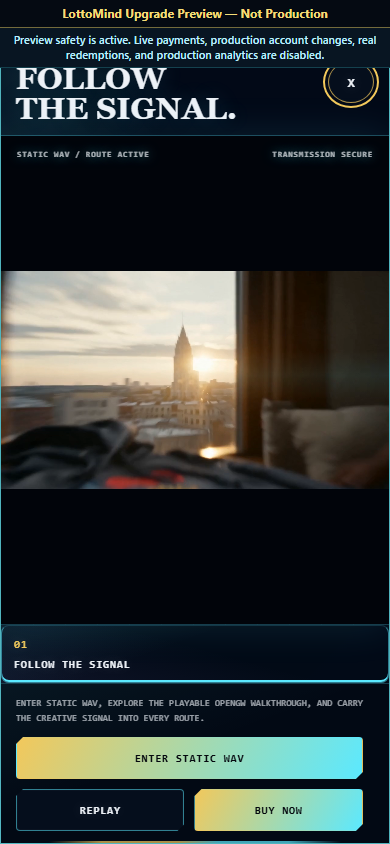
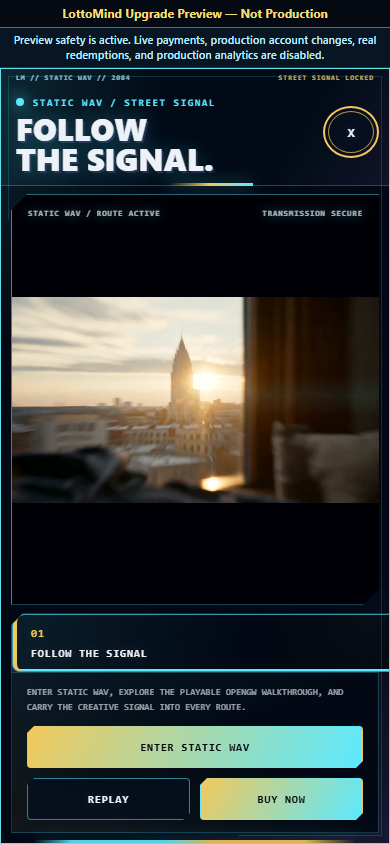
style: refine Static Wav commercial HUD

diff --git a/lottominded-ultra.io/assets/css/lm-commercial-gate.css b/lottominded-ultra.io/assets/css/lm-commercial-gate.css
@@ -227,6 +227,7 @@ body.has-lm-commercial-gate {
 
 .lm-commercial-gate--guide .lm-commercial-gate__panel {
   position: relative;
+  isolation: isolate;
   display: grid;
   grid-template-columns: minmax(0, 1.8fr) minmax(17rem, 0.72fr);
   grid-template-rows: auto minmax(0, 1fr) auto;
@@ -234,54 +235,97 @@ body.has-lm-commercial-gate {
   height: min(48rem, calc(100dvh - clamp(24px, 6vw, 84px)));
   max-height: 48rem;
   overflow: hidden;
-  border-color: rgba(111, 247, 255, 0.72);
+  border-color: rgba(111, 247, 255, 0.9);
   border-radius: 0;
-  clip-path: polygon(18px 0, calc(100% - 18px) 0, 100% 18px, 100% calc(100% - 18px), calc(100% - 18px) 100%, 18px 100%, 0 calc(100% - 18px), 0 18px);
+  clip-path: polygon(24px 0, calc(100% - 46px) 0, 100% 46px, 100% calc(100% - 24px), calc(100% - 24px) 100%, 46px 100%, 0 calc(100% - 46px), 0 24px);
   background:
-    linear-gradient(135deg, rgba(111, 247, 255, 0.08), transparent 24%),
-    linear-gradient(315deg, rgba(167, 139, 250, 0.08), transparent 25%),
+    linear-gradient(135deg, rgba(111, 247, 255, 0.12), transparent 24%),
+    linear-gradient(315deg, rgba(167, 139, 250, 0.12), transparent 25%),
+    repeating-linear-gradient(90deg, transparent 0 72px, rgba(91, 233, 255, 0.018) 72px 73px),
     #020914;
   box-shadow:
     0 0 0 1px rgba(242, 200, 91, 0.18),
-    0 0 0 7px rgba(2, 9, 20, 0.82),
-    0 0 90px rgba(91, 233, 255, 0.22),
+    0 0 0 7px rgba(2, 9, 20, 0.9),
+    0 0 0 9px rgba(91, 233, 255, 0.12),
+    0 0 90px rgba(91, 233, 255, 0.28),
+    0 0 150px rgba(167, 139, 250, 0.12),
     0 48px 160px rgba(0, 0, 0, 0.82);
 }
 
 .lm-commercial-gate--guide .lm-commercial-gate__panel::before,
 .lm-commercial-gate--guide .lm-commercial-gate__panel::after {
   position: absolute;
-  z-index: 5;
-  left: 3rem;
-  right: 3rem;
-  height: 2px;
+  z-index: 8;
   pointer-events: none;
-  background: linear-gradient(90deg, transparent, var(--lm-commercial-cyan) 18% 42%, var(--lm-commercial-gold) 56% 82%, transparent);
-  opacity: 0.7;
   content: "";
 }
 
 .lm-commercial-gate--guide .lm-commercial-gate__panel::before {
-  top: 0;
+  inset: 7px;
+  border: 1px solid rgba(91, 233, 255, 0.17);
+  clip-path: polygon(0 0, 12rem 0, 12rem 1px, 1px 1px, 1px 9rem, 0 9rem, 0 0, 100% 0, 100% 100%, calc(100% - 9rem) 100%, calc(100% - 9rem) calc(100% - 1px), calc(100% - 1px) calc(100% - 1px), calc(100% - 1px) calc(100% - 8rem), 100% calc(100% - 8rem));
 }
 
 .lm-commercial-gate--guide .lm-commercial-gate__panel::after {
-  bottom: 0;
-  transform: scaleX(-1);
+  inset: auto 2rem 0;
+  height: 3px;
+  background: linear-gradient(90deg, transparent, var(--lm-commercial-cyan) 12% 41%, var(--lm-commercial-gold) 55% 84%, transparent);
+  box-shadow: 0 0 20px rgba(91, 233, 255, 0.5);
+  opacity: 0.9;
+}
+
+.lm-commercial-gate--guide .lm-commercial-gate__guide-chassis {
+  position: absolute;
+  z-index: 9;
+  inset: 8px 38px auto;
+  display: flex;
+  justify-content: space-between;
+  gap: 16px;
+  color: rgba(170, 244, 255, 0.74);
+  font-family: "IBM Plex Mono", Consolas, monospace;
+  font-size: 0.48rem;
+  font-weight: 800;
+  letter-spacing: 0.16em;
+  text-transform: uppercase;
+  pointer-events: none;
+}
+
+.lm-commercial-gate--guide .lm-commercial-gate__guide-chassis span:last-child {
+  color: rgba(242, 200, 91, 0.84);
 }
 
 .lm-commercial-gate--guide .lm-commercial-gate__header {
+  position: relative;
   grid-column: 1 / -1;
-  min-height: 104px;
-  padding: 16px 24px;
+  min-height: 112px;
+  padding: 26px 28px 16px;
   border-bottom: 1px solid rgba(91, 233, 255, 0.28);
-  background: linear-gradient(90deg, rgba(91, 233, 255, 0.08), transparent 42%), rgba(2, 10, 23, 0.94);
+  background:
+    linear-gradient(90deg, rgba(91, 233, 255, 0.12), transparent 42%),
+    linear-gradient(120deg, transparent 0 72%, rgba(167, 139, 250, 0.08)),
+    rgba(2, 10, 23, 0.96);
+}
+
+.lm-commercial-gate--guide .lm-commercial-gate__header::after {
+  position: absolute;
+  right: 8.5rem;
+  bottom: -1px;
+  width: min(22vw, 16rem);
+  height: 3px;
+  background: linear-gradient(90deg, transparent, var(--lm-commercial-gold), var(--lm-commercial-cyan));
+  box-shadow: 0 0 16px rgba(91, 233, 255, 0.55);
+  content: "";
 }
 
 .lm-commercial-gate--guide .lm-commercial-gate__header h2 {
-  font-family: Georgia, "Times New Roman", serif;
-  font-size: clamp(2rem, 4vw, 3.5rem);
-  text-shadow: 0 0 22px rgba(91, 233, 255, 0.22);
+  max-width: 16ch;
+  font-family: "Space Grotesk", "Segoe UI", sans-serif;
+  font-size: clamp(2.15rem, 4.2vw, 3.8rem);
+  font-weight: 800;
+  letter-spacing: 0;
+  text-shadow:
+    0 0 22px rgba(91, 233, 255, 0.28),
+    2px 2px 0 rgba(167, 139, 250, 0.18);
 }
 
 .lm-commercial-gate--guide .lm-commercial-gate__header-actions {
@@ -304,12 +348,13 @@ body.has-lm-commercial-gate {
 }
 
 .lm-commercial-gate--guide .lm-commercial-gate__stage {
+  position: relative;
   grid-column: 1;
   grid-row: 2 / 4;
   min-height: 0;
-  margin: 0;
-  border: 0;
-  border-right: 1px solid rgba(91, 233, 255, 0.24);
+  margin: 18px;
+  border: 1px solid rgba(91, 233, 255, 0.56);
+  clip-path: polygon(16px 0, 100% 0, 100% calc(100% - 16px), calc(100% - 16px) 100%, 0 100%, 0 16px);
   background:
     linear-gradient(rgba(91, 233, 255, 0.035) 1px, transparent 1px),
     linear-gradient(90deg, rgba(91, 233, 255, 0.035) 1px, transparent 1px),
@@ -317,46 +362,67 @@ body.has-lm-commercial-gate {
   background-size: 2rem 2rem;
   box-shadow:
     inset 0 0 0 1px rgba(242, 200, 91, 0.12),
-    0 0 40px rgba(91, 233, 255, 0.12);
+    inset 0 0 46px rgba(2, 9, 20, 0.72),
+    0 0 38px rgba(91, 233, 255, 0.16);
   aspect-ratio: auto;
 }
 
 .lm-commercial-gate--guide .lm-commercial-gate__stage video {
   object-fit: contain;
+  filter: saturate(1.08) contrast(1.04);
 }
 
 .lm-commercial-gate--guide .lm-commercial-gate__chapters {
+  position: relative;
   grid-column: 2;
   grid-row: 2;
   grid-template-columns: 1fr;
   align-content: center;
-  padding: clamp(20px, 2.4vw, 32px);
+  margin: 18px 18px 0 0;
+  padding: clamp(26px, 3vw, 40px) clamp(20px, 2.4vw, 30px);
+  border: 1px solid rgba(91, 233, 255, 0.2);
   border-bottom: 0;
+  clip-path: polygon(12px 0, 100% 0, 100% 100%, 0 100%, 0 12px);
   background:
-    linear-gradient(160deg, rgba(91, 233, 255, 0.08), transparent 42%),
-    linear-gradient(15deg, rgba(167, 139, 250, 0.08), transparent 55%),
+    radial-gradient(circle at 92% 8%, rgba(242, 200, 91, 0.16), transparent 7rem),
+    linear-gradient(160deg, rgba(91, 233, 255, 0.11), transparent 42%),
+    linear-gradient(15deg, rgba(167, 139, 250, 0.1), transparent 55%),
     rgba(2, 10, 23, 0.96);
 }
 
 .lm-commercial-gate--guide .lm-commercial-gate__chapters button {
-  min-height: 72px;
-  padding: 14px 0;
-  border-top: 1px solid rgba(91, 233, 255, 0.16);
-  background: transparent;
+  min-height: 82px;
+  padding: 16px;
+  border: 1px solid rgba(91, 233, 255, 0.2);
+  background:
+    linear-gradient(105deg, rgba(91, 233, 255, 0.08), transparent 62%),
+    rgba(1, 8, 19, 0.84);
+  box-shadow: inset 4px 0 0 rgba(242, 200, 91, 0.7);
 }
 
 .lm-commercial-gate--guide .lm-commercial-gate__chapters button:is(:hover, :focus-visible, .is-active) {
-  padding-inline: 12px;
+  padding-inline: 18px 14px;
+  border-color: rgba(91, 233, 255, 0.62);
+  box-shadow:
+    inset 4px 0 0 var(--lm-commercial-gold),
+    inset 0 -2px var(--lm-commercial-cyan),
+    0 0 26px rgba(91, 233, 255, 0.12);
 }
 
 .lm-commercial-gate--guide .lm-commercial-gate__footer {
+  position: relative;
   grid-column: 2;
   grid-row: 3;
   display: grid;
   align-content: end;
-  padding: 20px 24px 24px;
+  margin: 0 18px 18px 0;
+  padding: 22px 24px 24px;
+  border: 1px solid rgba(91, 233, 255, 0.2);
   border-top: 1px solid rgba(91, 233, 255, 0.24);
-  background: linear-gradient(160deg, rgba(91, 233, 255, 0.06), transparent 45%), rgba(2, 9, 20, 0.98);
+  background:
+    linear-gradient(160deg, rgba(91, 233, 255, 0.08), transparent 45%),
+    linear-gradient(25deg, rgba(242, 200, 91, 0.07), transparent 55%),
+    rgba(2, 9, 20, 0.98);
 }
 
 .lm-commercial-gate--guide .lm-commercial-gate__footer p {
@@ -379,6 +445,15 @@ body.has-lm-commercial-gate {
 .lm-commercial-gate--guide .lm-commercial-gate__actions :is(button, a) {
   border-radius: 4px;
   clip-path: polygon(7px 0, 100% 0, 100% calc(100% - 7px), calc(100% - 7px) 100%, 0 100%, 0 7px);
+  transition:
+    border-color 180ms ease,
+    box-shadow 180ms ease,
+    transform 180ms ease;
+}
+
+.lm-commercial-gate--guide .lm-commercial-gate__actions :is(button, a):is(:hover, :focus-visible) {
+  transform: translateY(-2px);
+  box-shadow: 0 0 24px rgba(91, 233, 255, 0.24);
 }
 
 .lm-commercial-gate--guide .lm-commercial-gate__signal::before {
@@ -450,11 +525,16 @@ body.has-lm-commercial-gate {
     clip-path: none;
   }
 
+  .lm-commercial-gate--guide .lm-commercial-gate__guide-chassis {
+    inset: 5px 15px auto;
+    font-size: 0.42rem;
+  }
+
   .lm-commercial-gate--guide .lm-commercial-gate__header {
     grid-column: 1;
     grid-row: 1;
     min-height: 88px;
-    padding: 12px 15px;
+    padding: 22px 15px 12px;
   }
 
   .lm-commercial-gate--guide .lm-commercial-gate__header h2 {
@@ -469,7 +549,7 @@ body.has-lm-commercial-gate {
     grid-column: 1;
     grid-row: 2;
     min-height: min(58vw, 25rem);
-    margin: 0;
+    margin: 8px 10px;
     border-right: 0;
     border-bottom: 1px solid rgba(91, 233, 255, 0.24);
   }
@@ -479,6 +559,7 @@ body.has-lm-commercial-gate {
     grid-row: 3;
     grid-template-columns: repeat(var(--lm-commercial-chapter-count, 3), minmax(112px, 1fr));
     align-content: initial;
+    margin: 0 10px;
     padding: 0;
     overflow-x: auto;
   }
@@ -486,12 +567,14 @@ body.has-lm-commercial-gate {
   .lm-commercial-gate--guide .lm-commercial-gate__chapters button {
     min-height: 58px;
     padding: 9px 11px;
+    box-shadow: inset 0 -2px 0 rgba(242, 200, 91, 0.5);
   }
 
   .lm-commercial-gate--guide .lm-commercial-gate__footer {
     grid-column: 1;
     grid-row: 4;
     gap: 12px;
+    margin: 0 10px 10px;
     padding: 12px 15px max(12px, env(safe-area-inset-bottom));
   }
 
@@ -508,5 +591,9 @@ body.has-lm-commercial-gate {
 
   .lm-commercial-gate__scan {
     animation: none;
+  }
+
+  .lm-commercial-gate--guide .lm-commercial-gate__actions :is(button, a) {
+    transition: none;
   }
 }

diff --git a/lottominded-ultra.io/assets/js/lm-commercial-gate.js b/lottominded-ultra.io/assets/js/lm-commercial-gate.js
@@ -127,8 +127,14 @@
   modal.setAttribute("aria-modal", "true");
   modal.setAttribute("aria-labelledby", "lmCommercialGateTitle");
   modal.style.setProperty("--lm-commercial-chapter-count", String(films.length));
+  if (routeTheme === "guide") modal.dataset.lmGuideHud = "static-wav-2084";
   modal.innerHTML = `
     <div class="lm-commercial-gate__panel">
+      ${routeTheme === "guide" ? `
+        <div class="lm-commercial-gate__guide-chassis" aria-hidden="true">
+          <span>LM // STATIC WAV // 2084</span>
+          <span>STREET SIGNAL LOCKED</span>
+        </div>` : ""}
       <header class="lm-commercial-gate__header">
         <div>
           <span class="lm-commercial-gate__signal"></span>
@@ -175,6 +181,7 @@
   const suspendedMedia = [];
   let closing = false;
   let transitionFallbackTimer = 0;
+  let previewOffsetTimer = 0;
 
   const pausePageMedia = () => {
     document.querySelectorAll("audio, video").forEach((media) => {
@@ -281,6 +288,7 @@
 
   const finishGate = () => {
     window.clearTimeout(transitionFallbackTimer);
+    window.clearTimeout(previewOffsetTimer);
     body.classList.remove("has-lm-commercial-gate");
     siblings.forEach((node) => node.removeAttribute("inert"));
     document.removeEventListener("play", blockCompetingMedia, true);
@@ -340,6 +348,8 @@
 
   body.append(modal);
   syncPreviewOffset();
+  requestAnimationFrame(syncPreviewOffset);
+  previewOffsetTimer = window.setTimeout(syncPreviewOffset, 120);
   window.addEventListener("resize", syncPreviewOffset);
   body.classList.add("has-lm-commercial-gate");
   siblings.forEach((node) => node.setAttribute("inert", ""));

diff --git a/lottominded-ultra.io/how-to-use.html b/lottominded-ultra.io/how-to-use.html
@@ -19,7 +19,7 @@
     </script>
     <link rel="stylesheet" href="./assets/css/lm-page-transition.css?v=transition-exit-audit-4" />
     <link rel="stylesheet" href="./assets/css/lm-global-orb-header.css?v=site-audit-1" />
-    <link rel="stylesheet" href="./assets/css/lm-commercial-gate.css?v=static-wav-storefront-hud-4" />
+    <link rel="stylesheet" href="./assets/css/lm-commercial-gate.css?v=static-wav-future-hud-5" />
     <style>
       :root {
         color-scheme: dark;
@@ -221,6 +221,6 @@
 <script src="./assets/js/lm-page-transition-audio.js?v=transition-audio-in-out-7" defer></script>
 <script src="./assets/js/lm-page-transition.js?v=transition-every-route-5" defer></script>
 <script src="./site.js?v=header-toggle-routes-5" defer></script>
-<script src="./assets/js/lm-commercial-gate.js?v=static-wav-storefront-hud-6" defer></script>
+<script src="./assets/js/lm-commercial-gate.js?v=static-wav-future-hud-7" defer></script>
   </body>
 </html>

diff --git a/docs/staging-reviews/signal-media-corrections.md b/docs/staging-reviews/signal-media-corrections.md
@@ -186,3 +186,24 @@
 | --- | --- | --- |
 | Hero depth | [Desktop](../visual-baseline/v1/memberships--desktop.png) / [Tablet](../visual-baseline/v1/memberships--tablet.png) / [Mobile](../visual-baseline/v1/memberships--mobile.png) | [Desktop](./signal-media-corrections-assets/membership-depth-hero-1440x900.png) / [Tablet](./signal-media-corrections-assets/membership-depth-hero-768x1024.png) / [Mobile](./signal-media-corrections-assets/membership-depth-hero-390x844.png) |
 | Plan depth | [Desktop](../visual-baseline/v1/memberships--desktop.png) / [Tablet](../visual-baseline/v1/memberships--tablet.png) / [Mobile](../visual-baseline/v1/memberships--mobile.png) | [Desktop](./signal-media-corrections-assets/membership-depth-plans-1440x900.png) / [Tablet](./signal-media-corrections-assets/membership-depth-plans-768x1024.png) / [Mobile](./signal-media-corrections-assets/membership-depth-plans-390x844.png) |
+
+## 2026-07-28 Static Wav Future HUD Addendum
+
+- Affected route: Static Wav (`/how-to-use.html`)
+- Improvement: The existing guide commercial now uses a deeper transmission chassis with beveled corners, layered cyan/gold framing, glass telemetry surfaces, a contained film bay, a stronger chapter node, and a clearer action deck.
+- Mobile correction: The popup remeasures the staging safety bars after they are inserted, keeping the HUD crown, title, film, and controls fully visible at 390x844.
+- Preserved behavior: The original `lottomind-guide-commercial-20260717.mp4` film, one-commercial-per-entry rule, sound fallback, automatic dismissal, transition handoff, and Storefront-only Buy Now navigation are unchanged.
+- Intentional departure: The previous clean Storefront-style split panel becomes a more cinematic Static Wav signal chassis. The Detroit footage and black, gold, cyan, and violet identity remain recognizable.
+- Verification: The focused Static Wav browser test passed 2/2 across desktop and mobile. The candidate source/staging route matrix passed 92/92. Staging safety passed 10/10, and static verification covered 23 pages and 543 same-origin references.
+- Visual verification: 3/3 staging captures passed at 1440x900, 768x1024, and 390x844 with no horizontal overflow, running reduced-motion animation, console errors, page errors, or broken assets.
+- Safety: Staging remains noindex and visibly labeled. The Buy Now action remains route navigation only; live payments, production account writes, real redemptions, and production analytics remain blocked.
+- Approval status: **Ready for next phase.** Production remains unchanged and not approved.
+
+### Static Wav Future HUD Captures
+
+- [Desktop staging](./signal-media-corrections-assets/static-wav-1440x900.png)
+- [Tablet staging](./signal-media-corrections-assets/static-wav-768x1024.png)
+- [Mobile staging](./signal-media-corrections-assets/static-wav-390x844.png)
+- [v1 desktop baseline](../visual-baseline/v1/how-to-use--desktop.png)
+- [v1 tablet baseline](../visual-baseline/v1/how-to-use--tablet.png)
+- [v1 mobile baseline](../visual-baseline/v1/how-to-use--mobile.png)

diff --git a/docs/upgrade-redesign-status.md b/docs/upgrade-redesign-status.md
@@ -328,3 +328,18 @@
 - Staging URL: Local only (`http://127.0.0.1:8143/memberships.html`)
 - Staging safety: Noindex and preview banners verified; live payments, production account writes, real redemptions, and production analytics remain blocked
 - Production approval status: Not approved; production remains unchanged
+
+## Static Wav Future HUD
+
+- Step number: Browser-requested Static Wav commercial visual refinement
+- Commit SHA: This status entry is part of the current focused commit; the completion report records its exact SHA
+- Affected route: `/how-to-use.html`
+- Changes: Refined the existing guide commercial into a beveled Static Wav transmission chassis with layered glass framing, stronger telemetry, a contained film bay, chapter node, responsive action deck, and delayed staging-safety offset measurement
+- Preserved behavior: Existing commercial media, one-pass playback, sound fallback, automatic dismissal, transition handoff, and Storefront Buy Now navigation are unchanged
+- Tests: JavaScript syntax and 15-page site validation passed; focused Static Wav browser tests passed 2/2; candidate source/staging route matrix passed 92/92; staging safety passed 10/10; static staging verification passed for 23 pages and 543 same-origin references
+- Visual review: Refreshed Static Wav captures passed at 1440x900, 768x1024, and 390x844; compared with `docs/visual-baseline/v1/` and documented in `docs/staging-reviews/signal-media-corrections.md`
+- Intentional visual departure: The prior clean split panel becomes a more cinematic signal chassis while retaining the Detroit footage and black/gold/cyan/violet visual identity
+- Commerce and backend impact: None. Buy Now remains route navigation only, and no checkout, account, redemption, or backend behavior changed
+- Staging URL: Local only (`http://127.0.0.1:8143/how-to-use.html`)
+- Staging safety: Noindex and preview banners verified; live payments, production account writes, real redemptions, and production analytics remain blocked
+- Production approval status: Not approved; production remains unchanged
